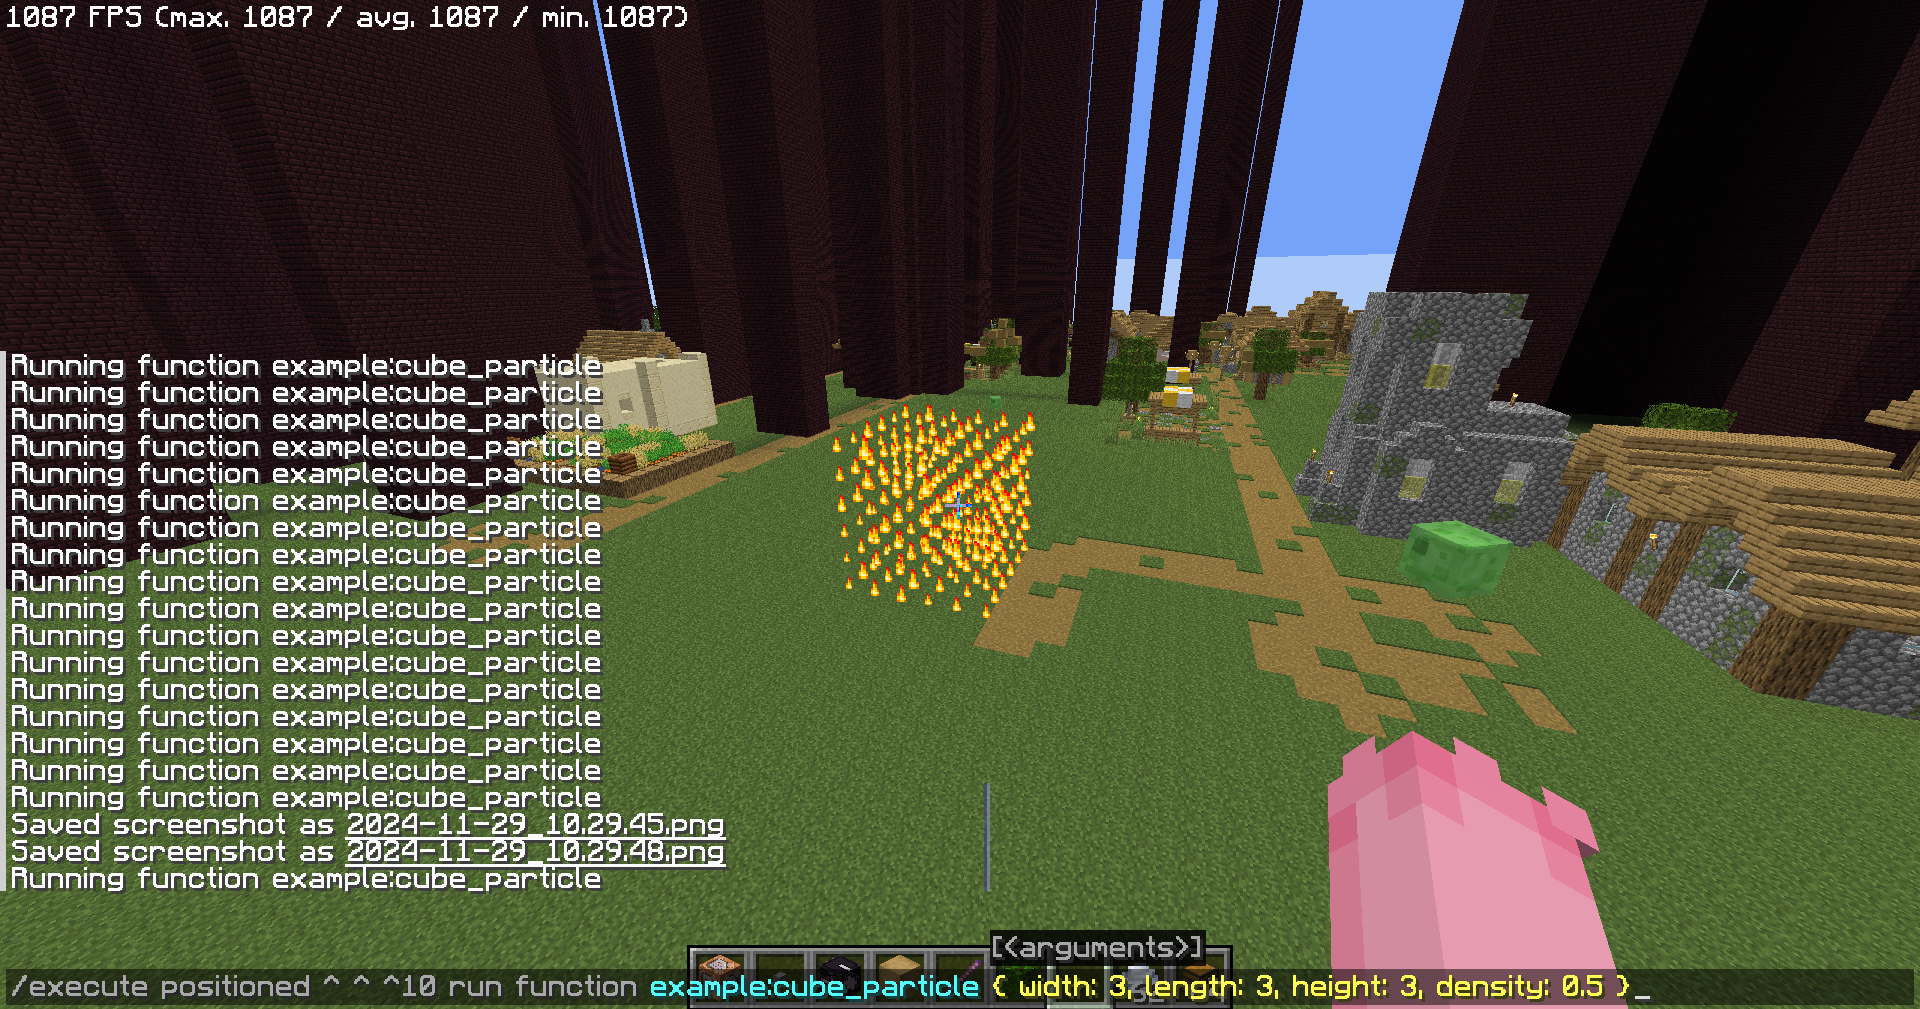
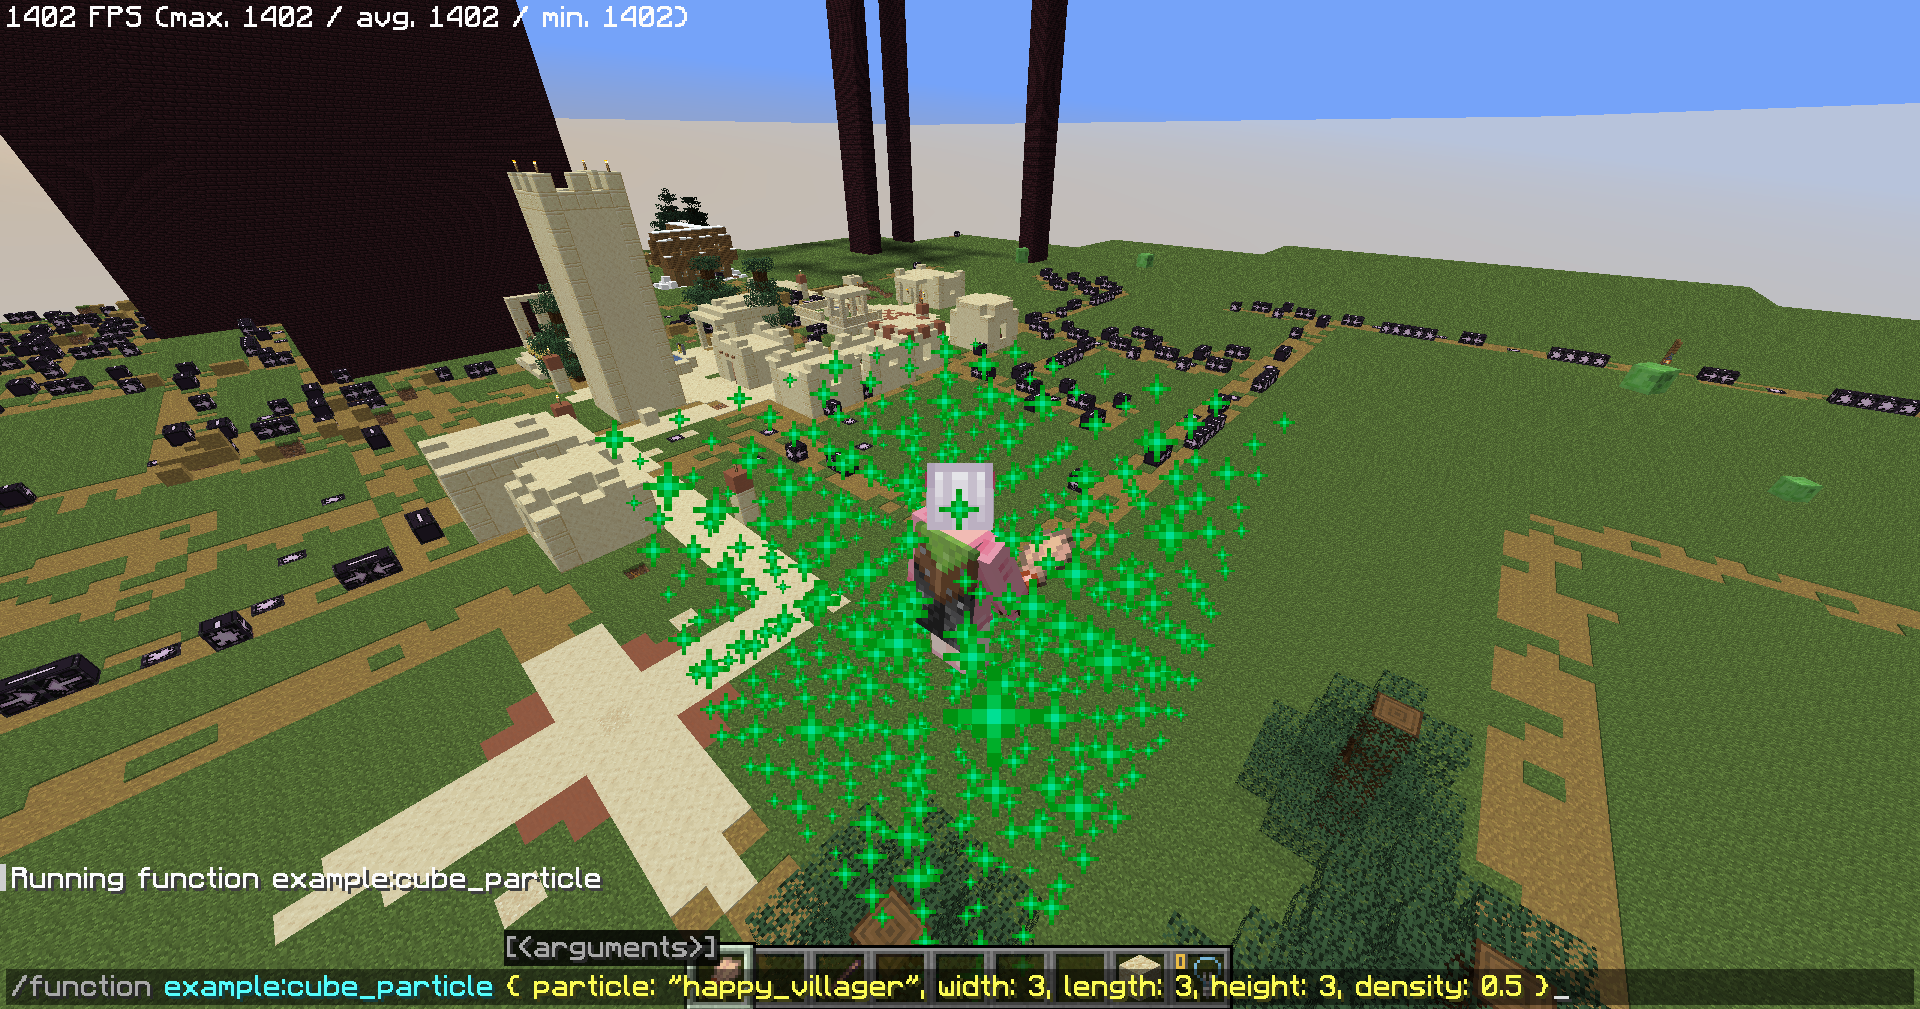
feat: update cube_particle example

diff --git a/examples/cube-particle.ts b/examples/cube-particle.ts
@@ -1,8 +1,8 @@
 import { defineMcsFunction, mcsAssign, mcsCmd, mcsExecute, mcsExpr, mcsVar, mcsWhile } from 'mcslib/builder.js';
 
 export const cubeParticle = defineMcsFunction(
-  ['number', 'number', 'number', 'number'],
-  (width, length, height, density) => {
+  ['string', 'number', 'number', 'number', 'number'],
+  (particle, width, length, height, density) => {
     const xStart = mcsVar('number', mcsExpr`-${width} / 2`);
     const yStart = mcsVar('number', mcsExpr`-${height} / 2`);
     const zStart = mcsVar('number', mcsExpr`-${length} / 2`);
@@ -19,7 +19,7 @@ export const cubeParticle = defineMcsFunction(
             mcsExpr`${zStart} + ${z}`
           ];
           mcsExecute(
-            mcsCmd`particle minecraft:flame ~${pos[0]} ~${pos[1]} ~${pos[2]} 0 0 0 0 0 force`
+            mcsCmd`particle ${particle} ~${pos[0]} ~${pos[1]} ~${pos[2]} 0 0 0 0 0 force`
           );
 
           mcsAssign(z, mcsExpr`${z} + ${density}`);

diff --git a/examples/build.ts b/examples/build.ts
@@ -22,7 +22,7 @@ if (
   await writer.export({
     name: 'cube_particle',
     fn: cubeParticle,
-    args: ['width', 'length', 'height', 'density'],
+    args: ['particle', 'width', 'length', 'height', 'density'],
   })
 ) {
   console.log(`exported cube_particle function`);
